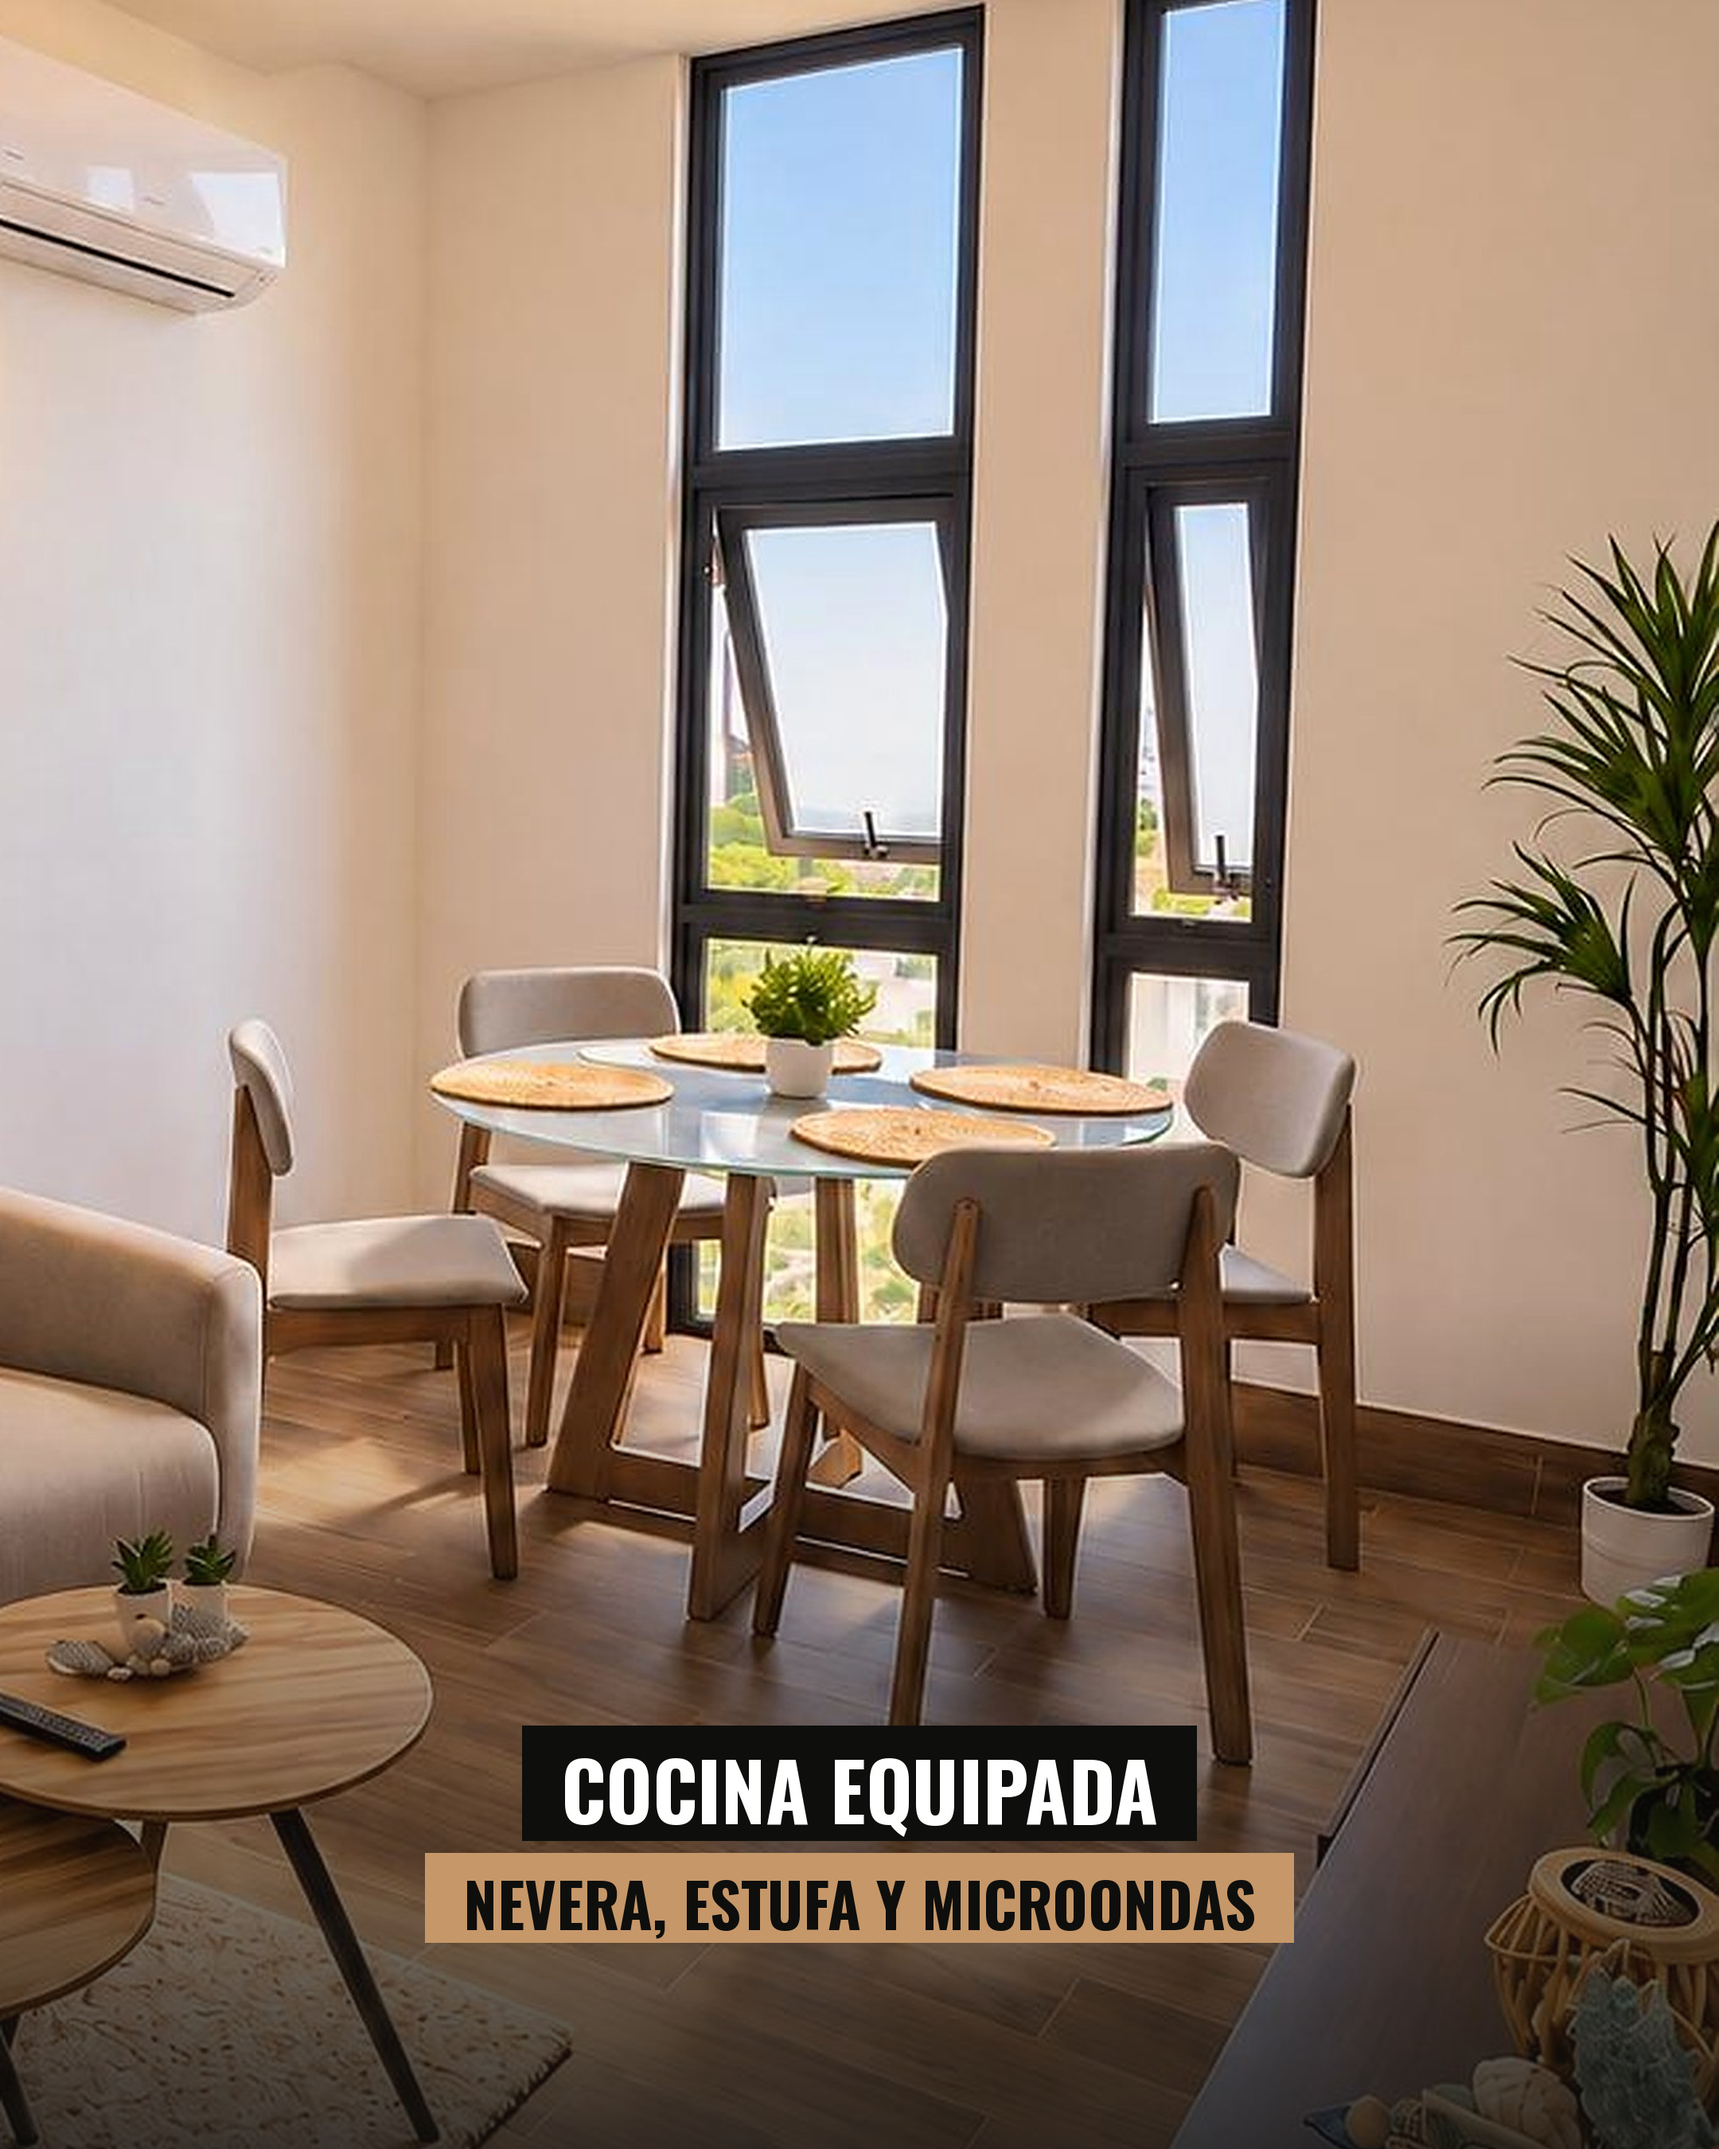
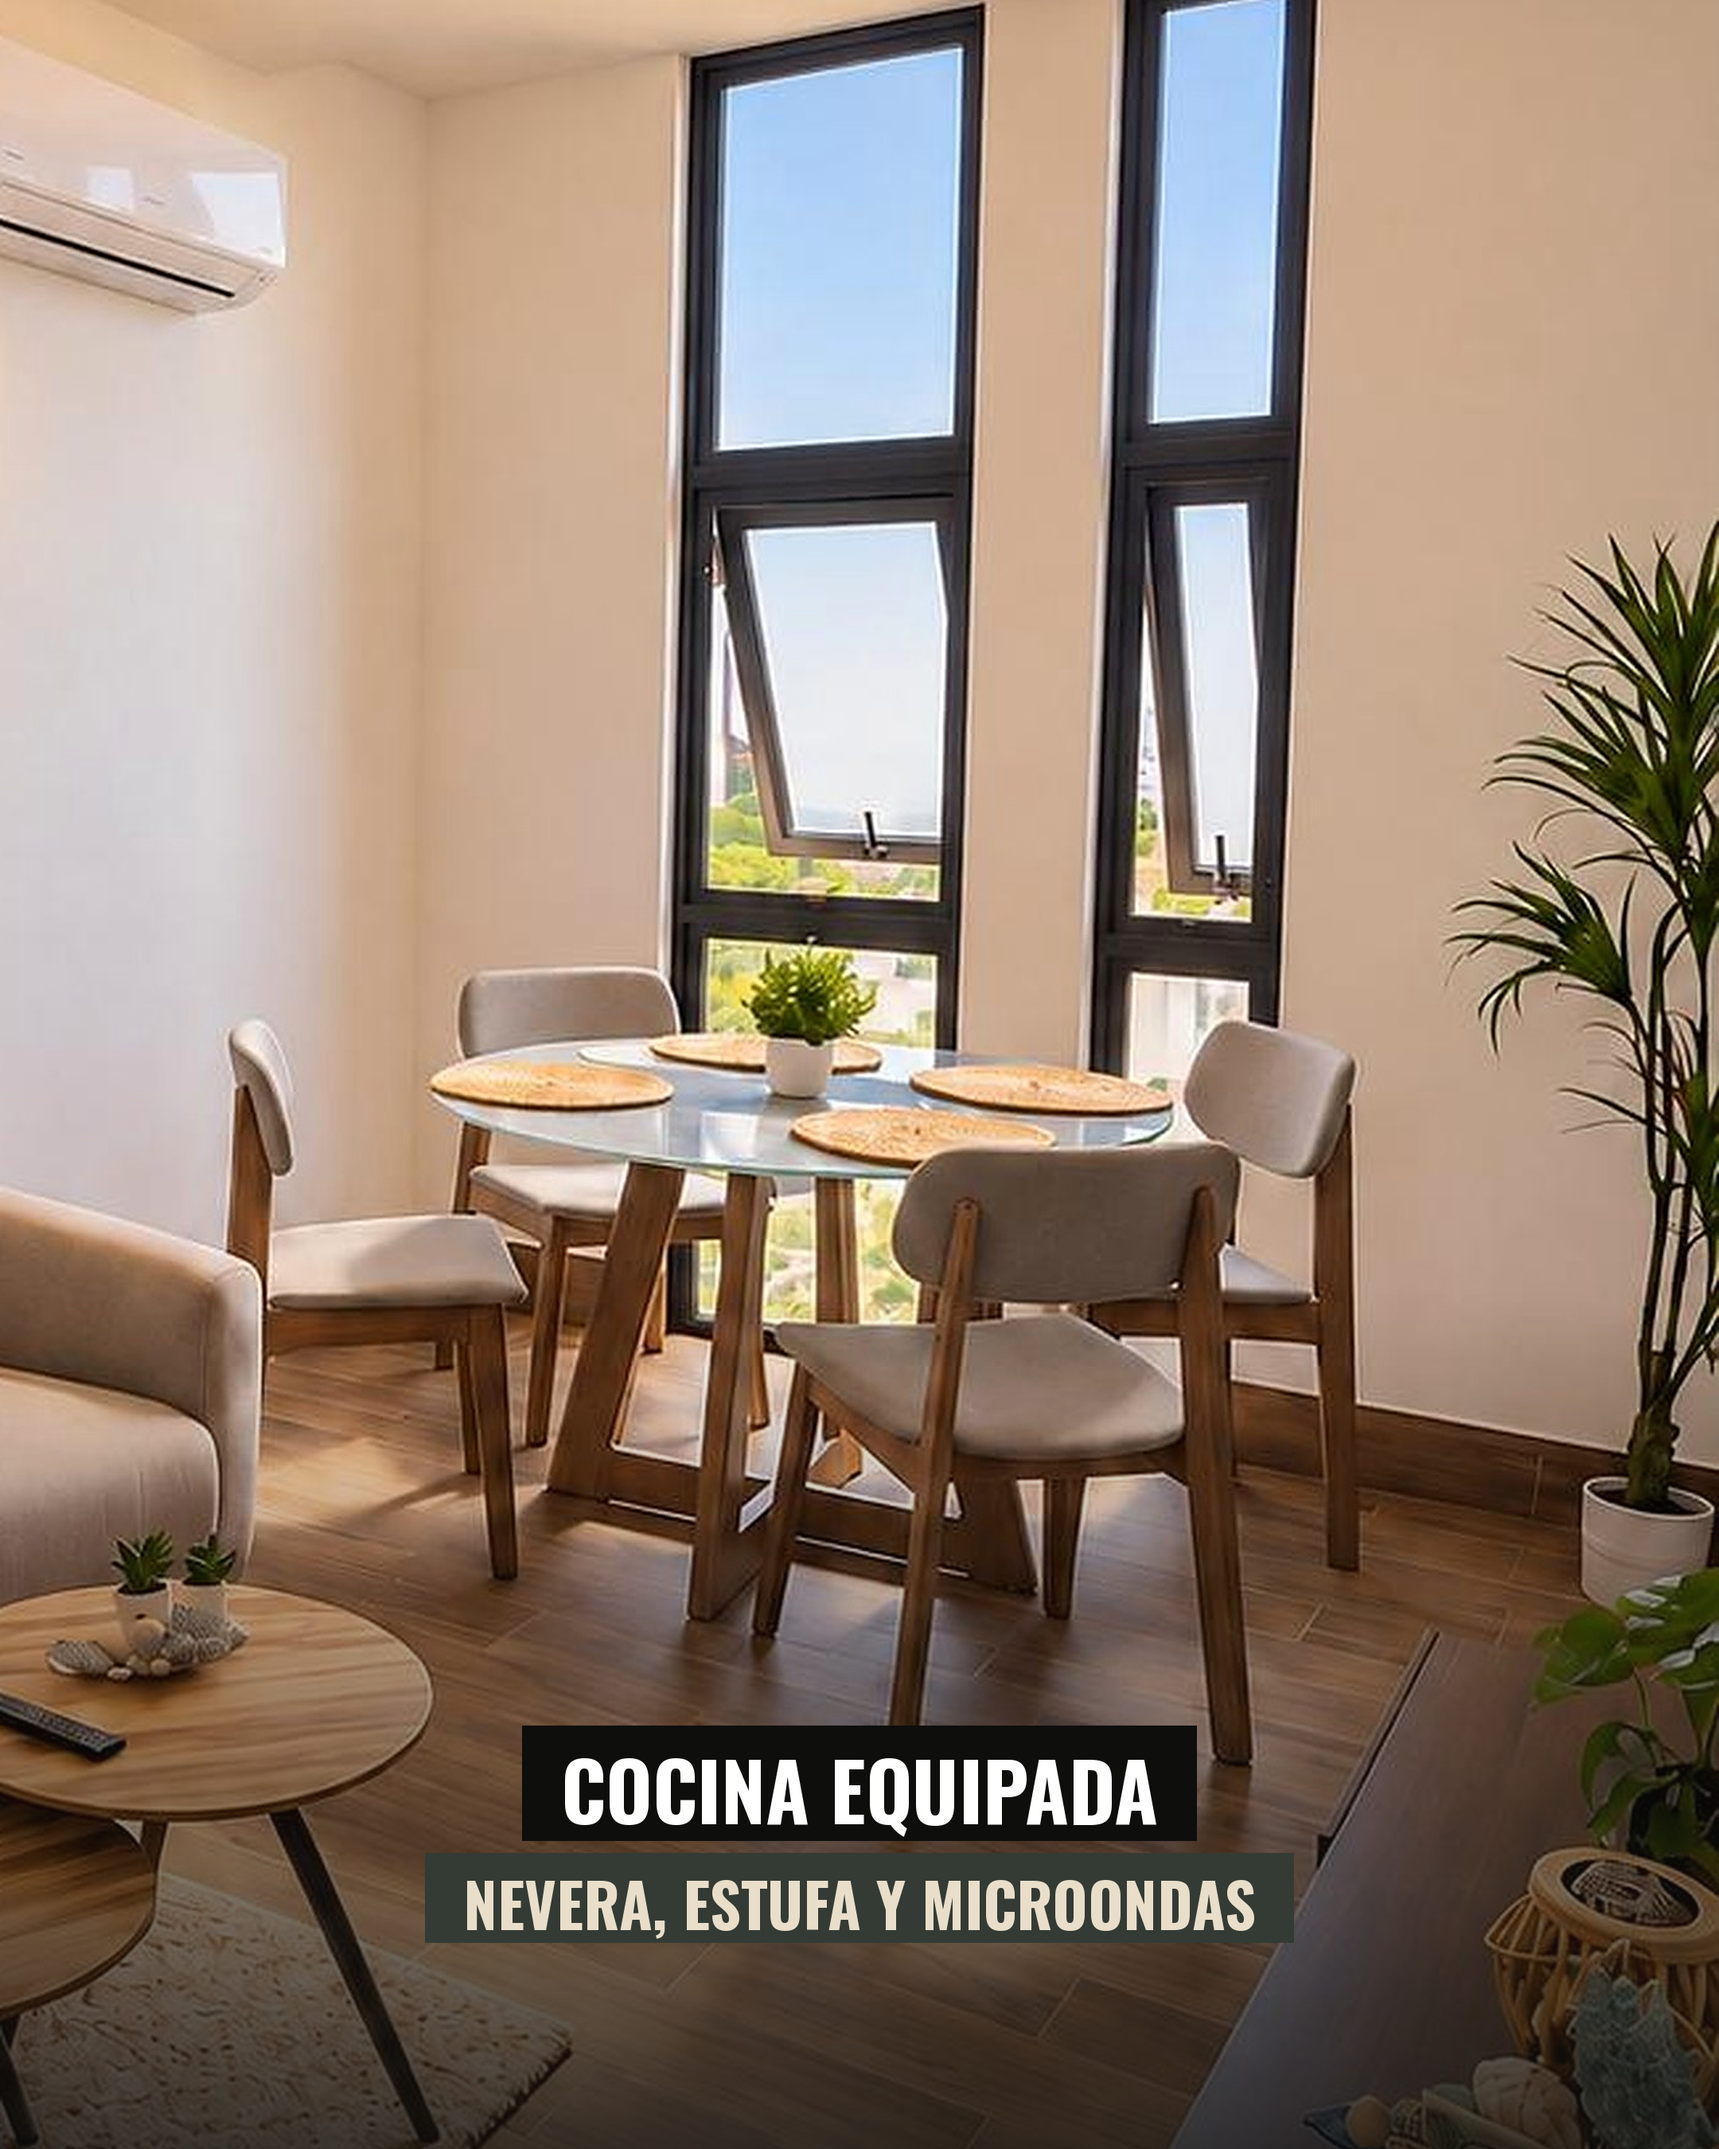
Cajas verde Luxury con letras champán en creativos Maciel
Claude-Session: https://claude.ai/code/session_01EESaw7emrGJVCsbrVwJd3g

Changed region(s): [[0.2481, 0.84, 0.7755, 0.9022]]

diff --git a/tools/ads_maciel_1051.py b/tools/ads_maciel_1051.py
@@ -7,6 +7,7 @@ S = "/tmp/claude-0/-home-claude/3b614509-f312-5864-9c46-7ad2dcf6e6f9/scratchpad"
 SRC = f"{S}/lp1051/img"; OUT = f"{S}/ads_maciel"; os.makedirs(OUT, exist_ok=True)
 K = 2
 NEGRO, CALIDO, BLANCO, CREMA = (14, 14, 12), (198, 152, 105), (255, 255, 255), (245, 238, 228)
+VERDELUX, CHAMP = (52, 59, 52), (233, 222, 201)
 osw = lambda wt, sz: ImageFont.truetype(f"{F}/oswald-latin-{wt}-normal.woff", int(sz * K))
 mont = lambda wt, sz: ImageFont.truetype(f"{F}/montserrat-latin-{wt}-normal.woff", int(sz * K))
 
@@ -55,7 +56,7 @@ def single(lang, w, h, base, story=False):
     for ln in t["hook"]: y = box(d, w, y, ln, 66 if not story else 72)
     yb = (1920 - 860) if story else (1350 - 330)
     y = box(d, w, yb, t["l1"], 46)
-    y = box(d, w, y, t["l2"], 58, bg=CALIDO, fg=NEGRO)
+    y = box(d, w, y, t["l2"], 58, bg=VERDELUX, fg=CHAMP)
     tag(d, w, y + 14, t["l3"], 16)
     save(img, base)
 
@@ -76,11 +77,11 @@ W, H = 1080 * K, 1350 * K
 for lang in ("es", "en"):
     for i, (n, a, b, fy) in enumerate(CAR[lang], 1):
         img = shade(photo(n, W, H, fy), bottom=0.8, start=0.6); d = ImageDraw.Draw(img)
-        y = box(d, W, 1090, a, 50); box(d, W, y, b, 38, bg=CALIDO, fg=NEGRO)
+        y = box(d, W, 1090, a, 50); box(d, W, y, b, 38, bg=VERDELUX, fg=CHAMP)
         save(img, f"M_{lang}_car_{i}")
     img = Image.new("RGBA", (W, H), (*NEGRO, 255)); d = ImageDraw.Draw(img)
     tag(d, W, 120, "MACIEL · LUXURY RENT HOUSE", 16)
-    y = box(d, W, 420, END[lang][0], 84, bg=CALIDO, fg=NEGRO)
+    y = box(d, W, 420, END[lang][0], 84, bg=VERDELUX, fg=CHAMP)
     tag(d, W, y + 30, END[lang][1], 20)
     box(d, W, y + 120, END[lang][2], 44)
     tag(d, W, 1180, "@MACIEL.LUXURYRH", 18)
